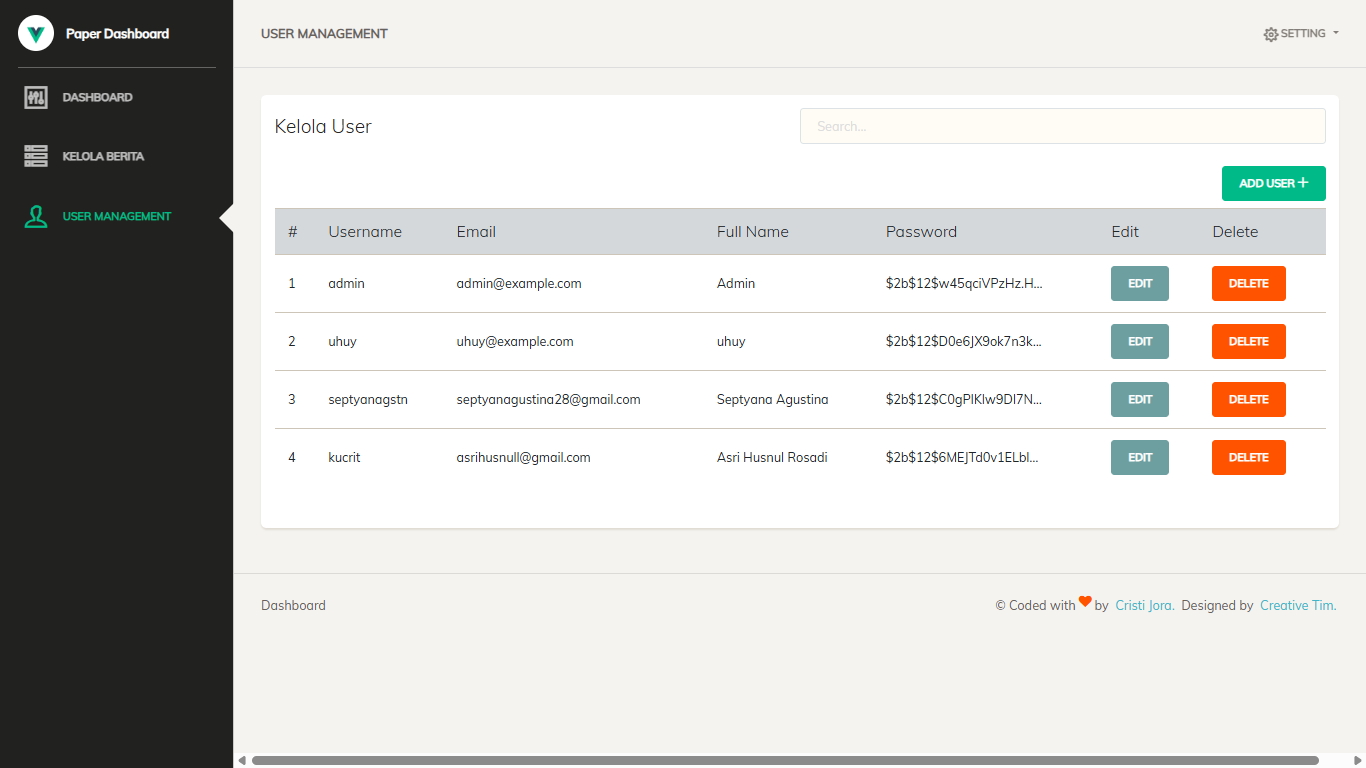
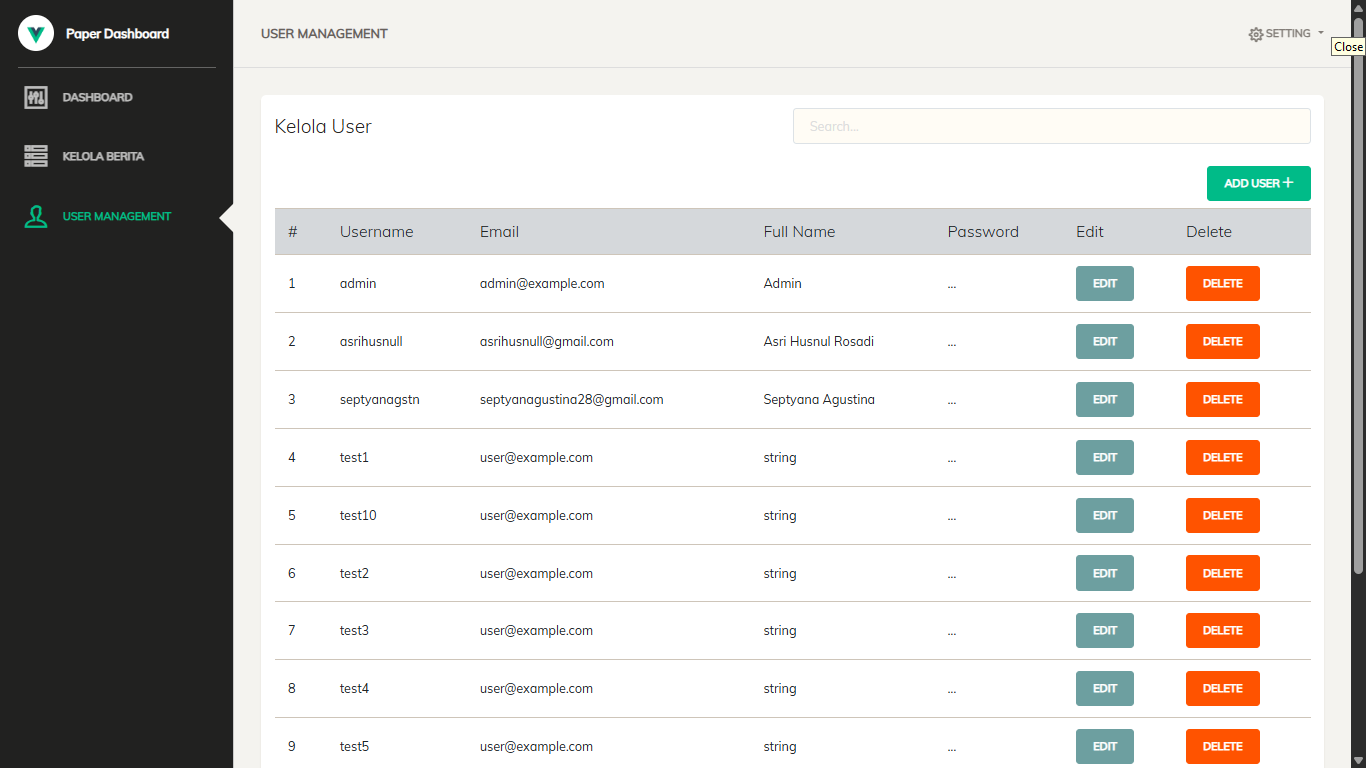
[fix] pagination

diff --git a/frontend/src/pages/UserManagement.vue b/frontend/src/pages/UserManagement.vue
@@ -33,8 +33,7 @@
               <td>{{ shortenText(user.username) }}</td>
               <td>{{ user.email }}</td>
               <td>{{ shortenText(user.full_name) }}</td>
-              <td>
-                {{ shortenText(user.password) }}</td>
+              <td>{{ hideText(user.password) }}</td>
               <td>
                 <button type="button" class="btn btn-primary btn-xs" @click="openEditModal(user._id)">
                   Edit
@@ -281,6 +280,9 @@ export default {
     shortenText(text, maxLength = 20) {
       if (!text) return "";
       return text.length > maxLength ? text.slice(0, maxLength) + "..." : text;
+    },
+    hideText(text) {
+      if (text) return "...";
     },
     setPages() {
       let numberOfPages = Math.ceil(this.users.length / this.perPage);

diff --git a/backend/main.py b/backend/main.py
@@ -112,12 +112,6 @@ async def get_users(skip: int = Query(0), limit: int = Query(10)):
         "items": users,
         "total": total_users
     }
-# @app.get("/users/")
-# async def get_all_users():
-#     users = await database["users"].find().to_list(length=None)
-#     for user in users:
-#         user["_id"] = str(user["_id"])
-#     return users
 
 # Create User
 @app.post("/users/")
@@ -190,13 +184,19 @@ async def delete_user(user_id: str):
 
 # Search users by username
 @app.get("/users/search/{query}")
-async def search_users(query: str):
-    users = []
-    found_users = await database["users"].find({"username": {"$regex": query, "$options": "i"}}).to_list(length=None)
+async def search_users(query: str, skip: int = 0, limit: int = 10):
+    filter_query = {"username": {"$regex": query, "$options": "i"}}
+
+    total_users = await database["users"].count_documents(filter_query)
+    found_users = await database["users"].find(filter_query).sort("post_date", -1).skip(skip).limit(limit).to_list(length=limit)
+
     for user in found_users:
         user["_id"] = str(user["_id"])
-        users.append(user)
-    return users
+
+    return {
+        "items": found_users,
+        "total": total_users
+    }
 
 # Get all articles
 @app.get("/articles/")
@@ -211,12 +211,6 @@ async def get_articles(skip: int = Query(0), limit: int = Query(10)):
         "items": articles,
         "total": total_articles
     }
-# @app.get("/articles/")
-# async def get_all_articles():
-#     articles = await database["kompas"].find().to_list(length=None)
-#     for article in articles:
-#         article["_id"] = str(article["_id"])
-#     return articles
 
 # Get detail article by ID
 @app.get("/articles/detail/{article_id}")
@@ -287,12 +281,3 @@ async def search_articles(query: str, skip: int = 0, limit: int = 10):
         "items": found_articles,
         "total": total_articles
     }
-
-# @app.get("/articles/search/{query}")
-# async def search_articles(query: str):
-#     articles = []
-#     found_articles = await database["kompas"].find({"title": {"$regex": query, "$options": "i"}}).to_list(length=None)
-#     for article in found_articles:
-#         article["_id"] = str(article["_id"])
-#         articles.append(article)
-#     return articles
